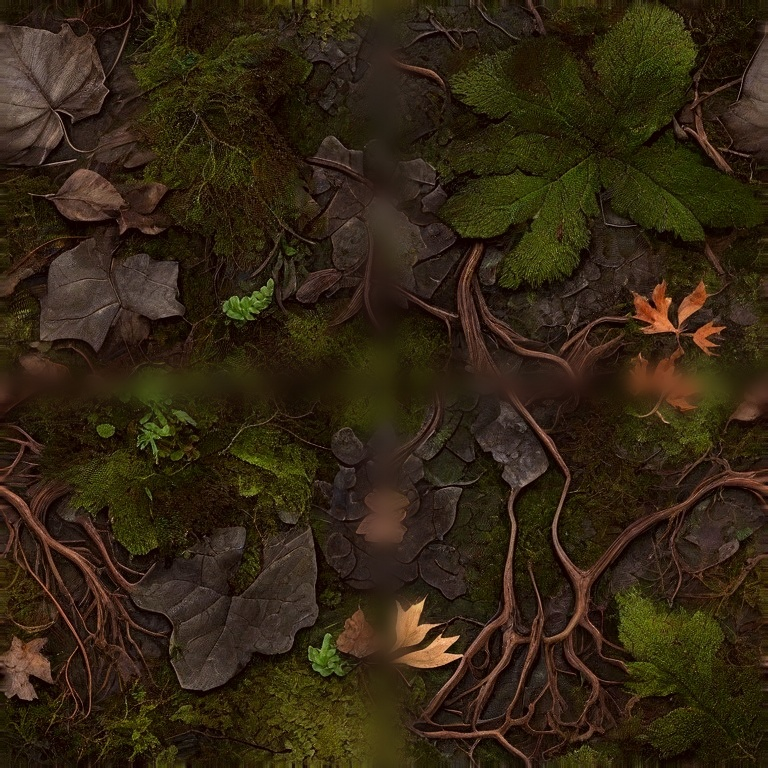
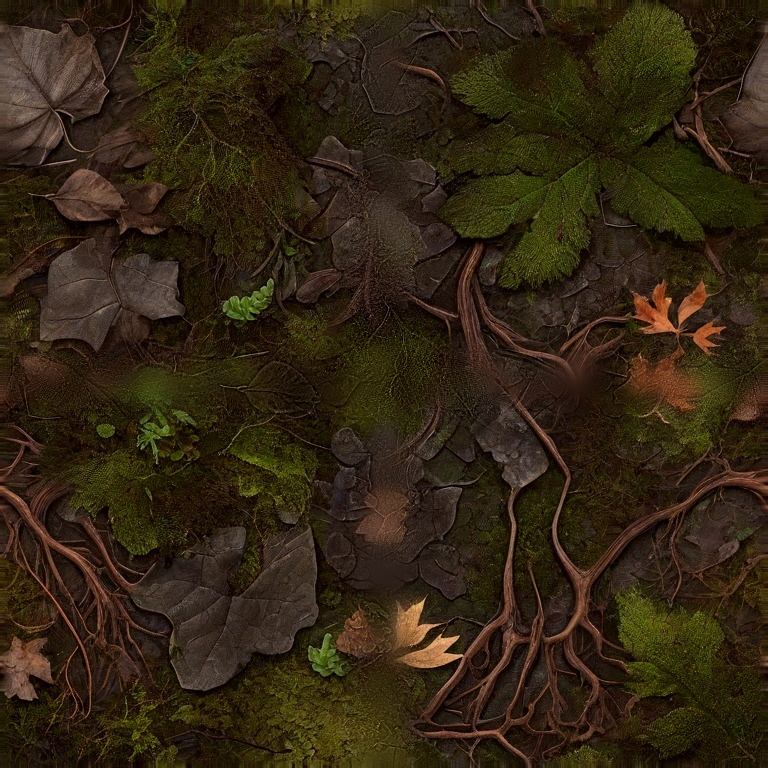
fix: dlaždice mapy — vrátit texturu do zaceleného švu (zmizel rozmazaný kříž)
Nalezeno Gemini vision (skill `vision`) a potvrzeno měřením: zacelení švu míchá
gaussovské rozostření s maskou kříže, takže uprostřed každé dlaždice zůstal
~110 px široký rozmazaný kříž — přesně tam, kde po posunu o polovinu ležel
původní okraj. Na mapě se to opakováním násobí.

- scripts/tile_sharpness.py (nový): měří ostrost pásu kolem středu proti
  mediánu zbytku dlaždice; `--limit` je mez, pod kterou je dlaždice rozmazaná
- scripts/seamless_tiles.py: `grain_pass` vrací do masky kříže jen
  vysokofrekvenční složku vzorku odjinud z dlaždice — nízké frekvence (to, co
  drží šev neviditelný) zůstávají z rozmazané verze. Maska je na okrajích
  nulová, takže přesný wrap se nemění. Nově `--grain/--gain/--detail`
  a `--grain-pass` (dodatečná oprava už zacelených dlaždic, bez posunu)
- scripts/gen_tiles.py (nový): generátor dlaždic přes Pollinations se stylem
  balíčku — obdoba `gen_tiles_local.py` (ComfyUI) pro rychlé zkoušení motivu
- assets/tiles: všech 20 dlaždic znovu z raw PNG, tedy jediné JPEG kódování

Ostrost pásu 0.47 -> 0.97 (0/20 pod limitem 0.85). Kontroly beze změny:
wrap 1.93 (limit 2.5), seam/zrno 0.79 (limit 1.6), perioda 6, odlišnost
terénů 40.1 (limit 26). Testy tile-window, tiles-preview, foundry,
foundry-game a headless-smoke OK.

diff --git a/scripts/seamless_tiles.py b/scripts/seamless_tiles.py
@@ -57,22 +57,59 @@ def cross_step(a):
     return hx, vy
 
 
-def heal(arr, band=28.0, radius=8.0, edge=16):
-    """Posun o polovinu + zacelení kříže + srovnání okrajů. Vrací float RGB."""
-    h, w, _ = arr.shape
-    b = np.roll(np.roll(arr, w // 2, axis=1), h // 2, axis=0).astype(np.float32)
-
-    # maska kříže: 1 v ose nespojitosti, 0 daleko od ní (gaussovský úbytek)
+def cross_mask(shape, band):
+    """Maska kříže: 1 v ose nespojitosti, 0 daleko od ní (gaussovský úbytek)."""
+    h, w = shape[:2]
     xs = np.arange(w)[None, :]
     ys = np.arange(h)[:, None]
     mx = np.exp(-((xs - w / 2.0) / band) ** 2)
     my = np.exp(-((ys - h / 2.0) / band) ** 2)
-    mask = np.maximum(np.broadcast_to(mx, (h, w)), np.broadcast_to(my, (h, w)))
+    return np.maximum(np.broadcast_to(mx, (h, w)), np.broadcast_to(my, (h, w)))
 
-    blurred = np.asarray(
-        Image.fromarray(b.astype(np.uint8)).filter(ImageFilter.GaussianBlur(radius))
+
+def _blur_uint8(a, radius):
+    return np.asarray(
+        Image.fromarray(np.clip(a, 0, 255).astype(np.uint8))
+        .filter(ImageFilter.GaussianBlur(radius))
     ).astype(np.float32)
+
+
+def grain_pass(arr, band=28.0, detail=1.6, amount=1.0, gain=3.0, shift=0):
+    """Vrátí do zaceleného kříže texturu, kterou tam zacelení rozmazalo.
+
+    Zacelení míchá gaussovské rozostření s maskou kříže -> šev zmizí, ale
+    uprostřed dlaždice vznikne ~2*band široký rozmazaný pruh (měřeno
+    `tile_sharpness.py`: 20/20 dlaždic mělo ve středu ~0.47 ostrosti okolí).
+    Tady se do stejné masky přičte jen **vysokofrekvenční** složka vzorku
+    odjinud z dlaždice: nízké frekvence (to, co dělá šev neviditelný) zůstanou
+    z rozmazané verze, ostrost se vrátí.
+
+    Bezpečné pro wrap: maska je na okrajích nulová (exp(-(384/28)^2) ~ 0), takže
+    se protilehlé okraje nemění. `gain` masku saturuje (3 = plný detail v jádru
+    pruhu, úbytek až v jeho ocasu) — s gaussovským úbytkem byl detail utlumený
+    i tam, kde je rozmazání ještě silné.
+    """
+    h, w = arr.shape[:2]
+    if shift <= 0:
+        shift = max(1, min(h, w) // 4)          # vzorek zdaleka od kříže
+    m = np.clip(cross_mask(arr.shape, band) * gain, 0.0, 1.0)
+    src = np.roll(np.roll(arr, shift, axis=1), shift, axis=0)
+    hf = src - _blur_uint8(src, detail)         # jen vysoké frekvence
+    return arr + hf * (m[:, :, None] * amount)
+
+
+def heal(arr, band=28.0, radius=8.0, edge=16, grain=1.0, detail=1.6, gain=3.0):
+    """Posun o polovinu + zacelení kříže + vrácení textury + srovnání okrajů."""
+    h, w, _ = arr.shape
+    b = np.roll(np.roll(arr, w // 2, axis=1), h // 2, axis=0).astype(np.float32)
+
+    mask = cross_mask(b.shape, band)
+    blurred = _blur_uint8(b, radius)
     out = b * (1 - mask[:, :, None]) + blurred * mask[:, :, None]
+
+    # zpátky ostrost do zaceleného pruhu (jinak je uprostřed vidět rozostřený kříž)
+    if grain > 0:
+        out = grain_pass(out, band, detail, grain, gain)
 
     # srovnání protilehlých okrajů v pásu `edge` px (přesný wrap = 0)
     if edge > 0:
@@ -109,7 +146,7 @@ def process(path, out_path, args, check):
         print(f'  {name:18s} uz je bezesve ({h0:.2f}/{v0:.2f}) -> preskoceno')
         return 0.0, 0.0
 
-    out = heal(a, args.band, args.radius, args.edge)
+    out = heal(a, args.band, args.radius, args.edge, args.grain, args.detail, args.gain)
     h1, v1 = wrap_delta(out)
     hx1, vy1 = cross_step(out)
     loss = 100.0 * (1.0 - hf_energy(out) / max(0.01, hf_energy(a)))
@@ -119,6 +156,25 @@ def process(path, out_path, args, check):
           f'kriz {hx0:5.2f}/{vy0:5.2f} -> {hx1:5.2f}/{vy1:5.2f}   '
           f'ztrata ostrosti {loss:4.1f} %')
     return (h0 + v0) / 2, (h1 + v1) / 2
+
+
+def grain_only(path, out_path, args):
+    """Dodatečné vrácení textury do už zacelené dlaždice (bez posunu a okrajů).
+
+    Pro sady, které už prošly starým `heal` (rozmazaný kříž uprostřed) — přesně
+    to je případ dlaždic ve hře. Wrap ani okraje se nemění, jen se do středového
+    pásu přidá vysokofrekvenční detail.
+    """
+    img = Image.open(path).convert('RGB')
+    a = np.asarray(img).astype(np.float32)
+    out = grain_pass(a, args.band, args.detail, args.grain, args.gain)
+    h0, v0 = wrap_delta(a)
+    h1, v1 = wrap_delta(out)
+    Image.fromarray(np.clip(out, 0, 255).astype(np.uint8)).save(
+        out_path, quality=args.quality)
+    print(f'  {os.path.basename(path):18s} wrap {h0:5.2f} -> {h1:5.2f}   '
+          f'HF {hf_energy(a):5.2f} -> {hf_energy(out):5.2f}')
+    return h1
 
 
 def main():
@@ -131,6 +187,14 @@ def main():
     ap.add_argument('--quality', type=int, default=95)
     ap.add_argument('--skip-below', type=float, default=1.0,
                     help='kdyz je wrap pod timto, nechat soubor byt')
+    ap.add_argument('--grain', type=float, default=1.0,
+                    help='kolik textury vratit do zaceleneho krize (0 = vypnuto)')
+    ap.add_argument('--detail', type=float, default=1.6,
+                    help='polomer, od ktereho se bere "detail" (vyssi = hrubsi)')
+    ap.add_argument('--gain', type=float, default=3.0,
+                    help='saturace masky pro detail (vyssi = plny detail i v ocasu pruhu)')
+    ap.add_argument('--grain-pass', action='store_true',
+                    help='jen vratit texturu do uz zacelenych dlaždic (bez posunu)')
     ap.add_argument('--check', action='store_true', help='jen zmerit, nemenit')
     args = ap.parse_args()
 
@@ -142,6 +206,20 @@ def main():
 
     out_dir = args.out or args.dir
     os.makedirs(out_dir, exist_ok=True)
+
+    if args.grain_pass:
+        print(f'[textura] {len(files)} souboru z {args.dir} -> {out_dir} '
+              f'(grain {args.grain:.2f}, detail {args.detail:.1f})')
+        wraps = []
+        for path in files:
+            ext = '.png' if path.lower().endswith('.png') else '.jpg'
+            out_path = path if out_dir == args.dir else os.path.join(
+                out_dir, os.path.splitext(os.path.basename(path))[0] + ext)
+            wraps.append(grain_only(path, out_path, args))
+        print(f'\nprumer wrap po vraceni textury: {np.mean(wraps):6.2f}')
+        print('VYSLEDEK: ' + ('OK' if np.mean(wraps) <= 2.5 else 'CHYBA - wrap vysoky'))
+        return 0 if np.mean(wraps) <= 2.5 else 1
+
     print(('[kontrola] ' if args.check else '[heal] ') +
           f'{len(files)} souboru z {args.dir}' +
           ('' if args.check else f' -> {out_dir}'))

diff --git a/scripts/tile_sharpness.py b/scripts/tile_sharpness.py
@@ -1,0 +1,99 @@
+#!/usr/bin/env python
+"""Změří, jak moc je dlaždice rozmazaná na středovém kříži.
+
+Proč: `seamless_tiles.py` řeší šev posunem o polovinu a zacelením — jenže
+zacelení míchá gaussovské rozostření s maskou `exp(-((x-384)/28)^2)`, takže
+uprostřed dlaždice vznikne ~110 px široký rozmazaný kříž (přesně tam, kde byl
+původní okraj). Při opakování dlaždice na mapě se to násobí a je to vidět.
+
+Metrika: vysokofrekvenční energie (průměr |rozdíl sousedních pixelů|) ve pásu
+kolem středu vs. medián zbytku dlaždice. 1.00 = ostré jako okolí, 0.50 = půlka
+ostrosti. Bereme zvlášť svislý pruh (sloupce) a vodorovný pruh (řádky).
+
+Použití:
+    python scripts/tile_sharpness.py [adresar]
+    python scripts/tile_sharpness.py assets/tiles --band 40 --limit 0.85
+
+Výstup je tabulka + souhrn; `--limit` je mez, pod kterou je dlaždice označená
+jako rozmazaná (návratový kód 1, když nějaká padne).
+Vyžaduje: pillow + numpy.
+"""
+import argparse
+import os
+import sys
+
+import numpy as np
+from PIL import Image
+
+EXT = ('.jpg', '.png')
+
+
+def profiles(path):
+    """Vrátí (col_hf, row_hf) — energii hrany na každý sloupec/řádek."""
+    a = np.asarray(Image.open(path).convert('RGB')).astype(np.float32).mean(axis=2)
+    col = np.abs(np.diff(a, axis=1)).mean(axis=0)      # hrana mezi x a x+1
+    row = np.abs(np.diff(a, axis=0)).mean(axis=1)      # hrana mezi y a y+1
+    return col, row
+
+
+def band_ratio(profile, band, guard):
+    """Poměr energie ve pásu kolem středu proti mediánu zbytku."""
+    n = len(profile)
+    c = n // 2
+    lo, hi = c - band, c + band
+    inner = profile[lo:hi + 1]
+    mask = np.ones(n, dtype=bool)
+    mask[max(0, c - guard):min(n, c + guard + 1)] = False
+    ref = float(np.median(profile[mask]))
+    if ref <= 1e-6:
+        return 1.0, 1.0
+    return float(inner.mean()) / ref, float(inner.min()) / ref
+
+
+def analyze(path, band, guard):
+    col, row = profiles(path)
+    rc, mc = band_ratio(col, band, guard)
+    rr, mr = band_ratio(row, band, guard)
+    ratio = min(rc, rr)
+    return {'name': os.path.basename(path), 'col': rc, 'row': rr,
+            'min_col': mc, 'min_row': mr, 'ratio': ratio}
+
+
+def main():
+    ap = argparse.ArgumentParser()
+    ap.add_argument('dir', nargs='?', default='assets/tiles')
+    ap.add_argument('--band', type=int, default=40, help='pulka sirky pasu kolem stredu')
+    ap.add_argument('--guard', type=int, default=80, help='co jeste pocitat do referencniho medianu')
+    ap.add_argument('--limit', type=float, default=0.85, help='pod timhle poměrem = rozmazane')
+    args = ap.parse_args()
+
+    files = sorted(f for f in os.listdir(args.dir)
+                   if f.lower().endswith(EXT) and not f.startswith('.'))
+    if not files:
+        print('zadne dlazdice v', args.dir)
+        return 1
+
+    print(f'{args.dir}: {len(files)} dlazdic, pas +-{args.band} px, limit {args.limit:.2f}')
+    print('  %-18s %6s %6s %6s' % ('dlazdice', 'sloupce', 'radky', 'min'))
+    rows = []
+    for f in files:
+        r = analyze(os.path.join(args.dir, f), args.band, args.guard)
+        rows.append(r)
+        flag = '  <-- ROZMAZANE' if r['ratio'] < args.limit else ''
+        print('  %-18s %6.2f %6.2f %6.2f%s' % (r['name'], r['col'], r['row'], r['ratio'], flag))
+
+    avg = float(np.mean([r['ratio'] for r in rows]))
+    worst = min(rows, key=lambda r: r['ratio'])
+    bad = [r['name'] for r in rows if r['ratio'] < args.limit]
+    over = [r['name'] for r in rows if r['ratio'] > 1.05]
+    print('\n  prumer %6.2f   nejhorsi %s %.2f   pod limitem %d/%d'
+          % (avg, worst['name'], worst['ratio'], len(bad), len(rows)))
+    print('  preostreno pres 1.05: %d/%d' % (len(over), len(rows))
+          + ('  -> ' + ', '.join(over) if over else ''))
+    if bad:
+        print('  rozmazane: ' + ', '.join(bad))
+    return 1 if bad else 0
+
+
+if __name__ == '__main__':
+    sys.exit(main())

diff --git a/scripts/gen_tiles.py b/scripts/gen_tiles.py
@@ -1,0 +1,81 @@
+#!/usr/bin/env python
+"""Vygeneruje dlaždice mapy přes Pollinations (zdarma, bez klíče).
+
+Proč zvlášť vedle `gen_tiles_local.py`: ten jede na lokálním ComfyUI (RX 6600,
+~105 s na dlaždici). Tenhle je online varianta — rychlejší na vyzkoušení motivu,
+ale kvalita je méně předvídatelná. Stejné předměty terénů i stejná stavba
+promptu (bezešvá textura, žádný ústřední motiv), jen s možností přidat styl
+balíčku.
+
+Výstup jsou **surové** textury do zadaného adresáře; teprve pak se ladí barva
+a tvar:
+    python scripts/gen_tiles.py --style kronika --out assets/tiles_kronika
+    python scripts/grade_tiles.py assets/tiles_kronika assets/tiles_kronika
+    python scripts/seamless_tiles.py --dir assets/tiles_kronika
+    python scripts/check-tiles.py --dir assets/tiles_kronika --scheme sliding --repeat 6
+    python scripts/compare_assets.py --old assets/tiles --new assets/tiles_kronika
+
+Vyžaduje: pillow (+ numpy u navazujících skriptů) — venv ComfyUI + internet.
+"""
+import argparse
+import os
+import sys
+
+sys.path.insert(0, os.path.dirname(os.path.abspath(__file__)))
+from gen_props import fetch, STYLE_KRONIKA          # stejné stahování jako u prvků
+from gen_tiles_local import TERRAINS, NEG, prompt_for   # stejné předměty i stavba promptu
+
+W, H = 768, 768
+SEED = 7000
+
+
+def main():
+    ap = argparse.ArgumentParser()
+    ap.add_argument('--out', default='assets/tiles_kronika')
+    ap.add_argument('--variants', type=int, default=2, help='textur na terén (hra čeká 1 a 2)')
+    ap.add_argument('--style', default='kronika', choices=['plain', 'kronika'])
+    ap.add_argument('--only', default='', help='jen tyto terény (čárkou)')
+    ap.add_argument('--seed', type=int, default=SEED)
+    args = ap.parse_args()
+
+    want = [s.strip() for s in args.only.split(',') if s.strip()]
+    terrains = [t for t in TERRAINS if not want or t in want]
+    if not terrains:
+        print('neznamy teren; zname: ' + ', '.join(TERRAINS))
+        return 1
+
+    os.makedirs(args.out, exist_ok=True)
+    print('generuji %d terenu x %d textur (%s) -> %s' % (
+        len(terrains), args.variants, args.style, args.out), flush=True)
+    ok, failed = 0, []
+    for i, terrain in enumerate(terrains):
+        subject = TERRAINS[terrain]
+        # krátký prompt: Pollinations odřezává dlouhé (docs/STYL_GRAFIKY.md §8)
+        prompt = '%s, %s' % (prompt_for(subject), STYLE_KRONIKA if args.style == 'kronika' else '')
+        prompt = prompt.strip().rstrip(',')
+        for v in range(1, args.variants + 1):
+            seed = args.seed + i * 137 + v * 1000
+            img = fetch(prompt, seed, w=W, h=H)
+            if img is None:
+                failed.append('%s-%d' % (terrain, v))
+                print('  %-12s -%d  stazeni selhalo' % (terrain, v), flush=True)
+                continue
+            dst = os.path.join(args.out, '%s-%d.jpg' % (terrain, v))
+            img.convert('RGB').save(dst, quality=92)
+            ok += 1
+            print('  %-12s -%d  OK  seed %d  (%d kB)' % (
+                terrain, v, seed, os.path.getsize(dst) // 1024), flush=True)
+
+    print('\nhotovo: %d textur' % ok, flush=True)
+    if failed:
+        print('selhalo: ' + ', '.join(failed), flush=True)
+    if ok:
+        print('další kroky:', flush=True)
+        print('  python scripts/grade_tiles.py %s %s' % (args.out, args.out), flush=True)
+        print('  python scripts/seamless_tiles.py --dir %s' % args.out, flush=True)
+        print('  python scripts/check-tiles.py --dir %s --scheme sliding --repeat 6' % args.out, flush=True)
+    return 0 if ok else 1
+
+
+if __name__ == '__main__':
+    sys.exit(main())
